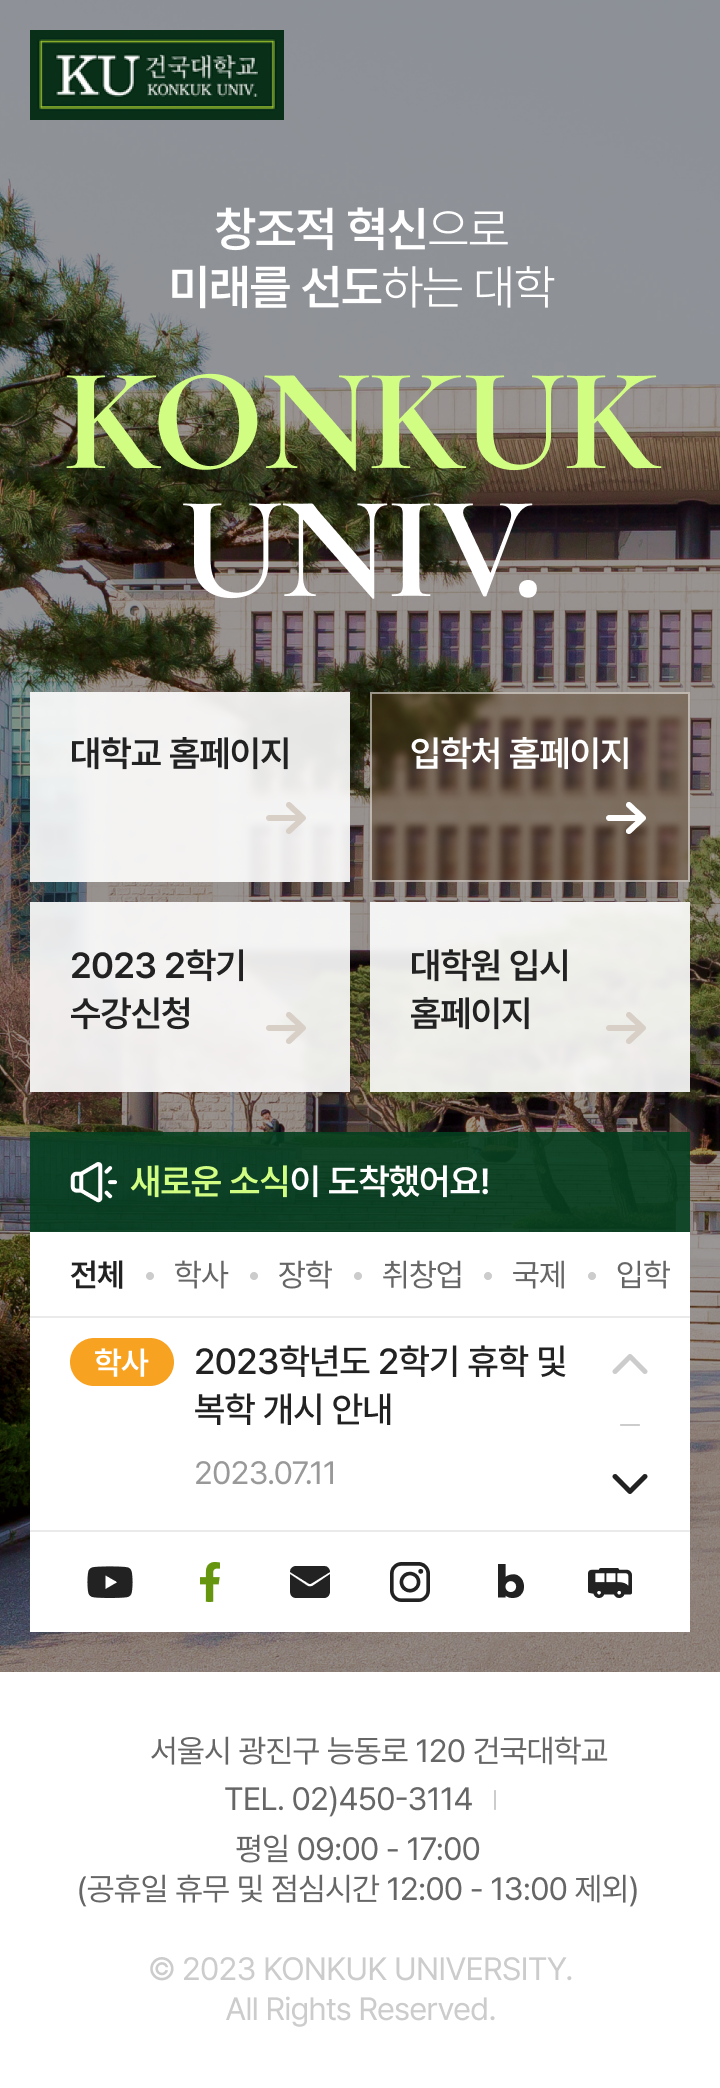
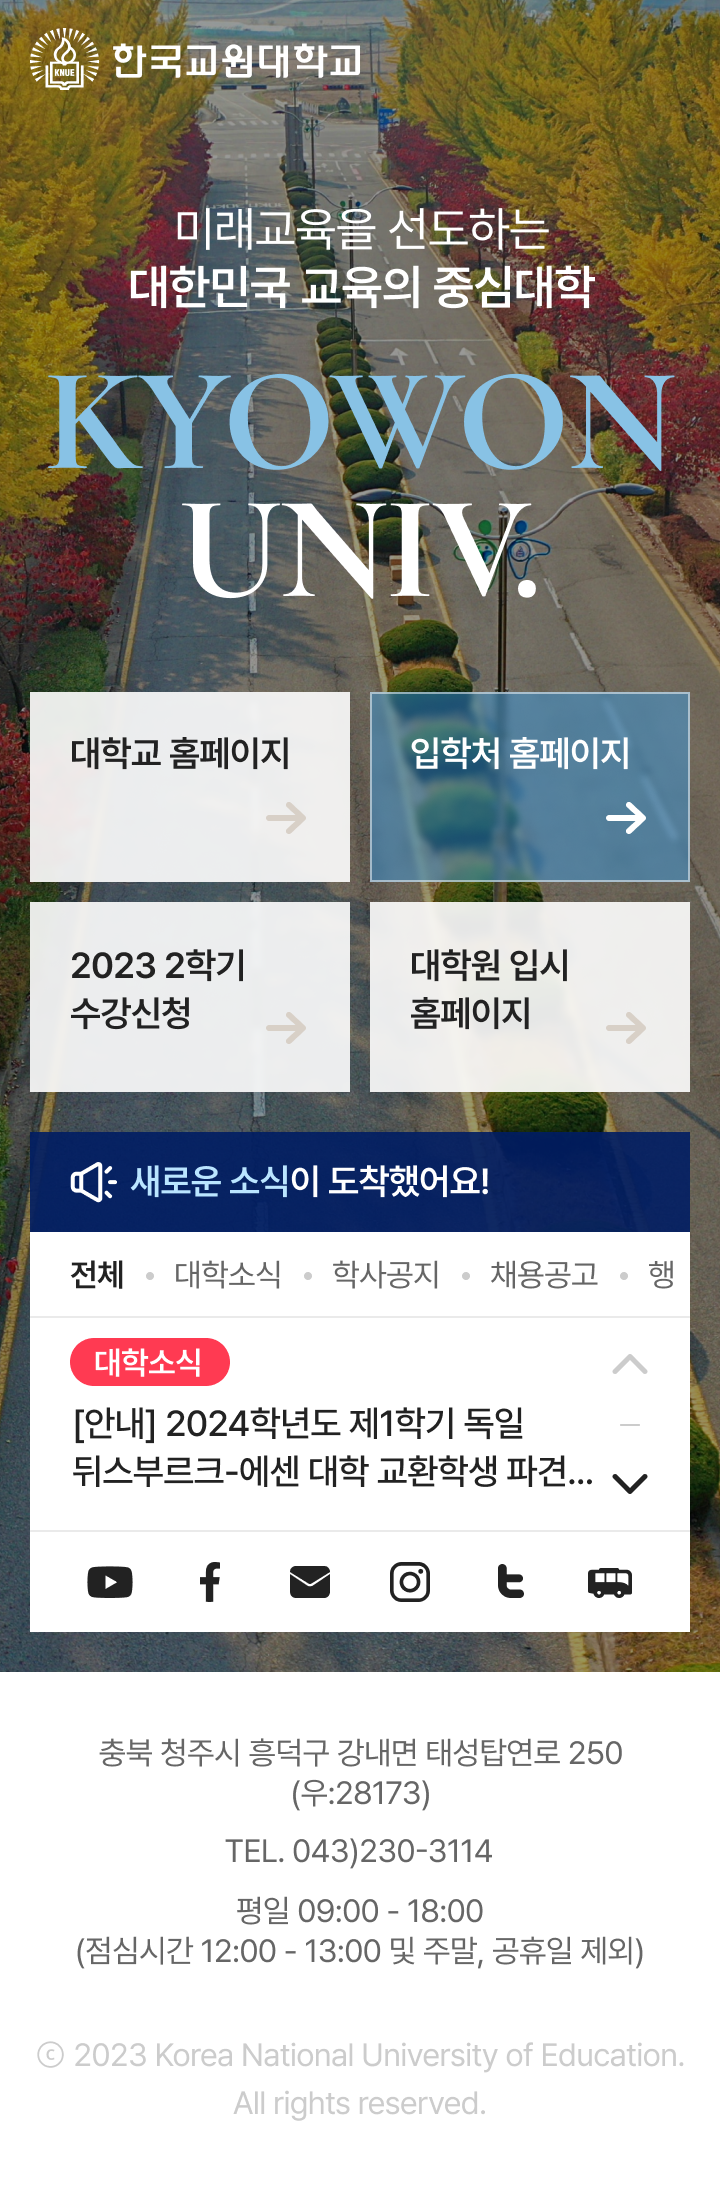
중간 커밋

diff --git a/html/typeA_intro.html b/html/typeA_intro.html
@@ -11,54 +11,68 @@
 <body>
   <div class="wrap intro-a">
     <img src="../images/img-intro-a-mo.png" class="mo">
-    <header>
-        <h1><img src="../images/logo-intoA-header.png"></h1>
-    </header>
-    <main>
-        <div class="intro-main-t">
-            <div class="video"><img src="../images/img-introA-video.png"></div>
-            <div class="txt">
-                <img src="../images/img-introA-sns.png" class="img-sns">
-                <img src="../images/img-introA-name.png" class="logo-name">
-                <ul>
-                    <li><a href="#n">건국대학교</a></li>
-                    <li><a href="#n">건국대학교 입학처</a></li>
-                    <li><a href="#n">2023 2학기 수강신청</a></li>
-                    <li><a href="#n">대학원 입시 홈페이지</a></li>
-                </ul>
-            </div>
-        </div>
-        <div class="intro-main-b">
-            <img src="../images/img-introA-notice.png">
-            <div class="notice">
-                <div class="box-notice">
-                    <span class="tag">학사</span>
-                    <p> 2023학년도 2학기(2024년 2월 졸업
-                        대상자) 졸업 논문 제출 안내</p>
-                    <span class="date">2023.08.28</span>
-                </div>
-                <div class="box-notice">
-                    <span class="tag">장학</span>
-                    <p>2023학년도 2학기 저소득층 장학생 추가 추천&#40;건국사랑, 건국희망 ...</p>
-                    <span class="date">2023.08.28</span>
-                </div>
-                <div class="box-notice">
-                    <span class="tag">조교</span>
-                    <p>문과대학 유학생 지원사업 담당조교
-                        (수업조교C) 모집공고</p>
-                    <span class="date">2023.08.28</span>
-                </div>
-                <div class="box-notice">
-                    <span class="tag">학부</span>
-                    <p>2023학년도 2학기 다·부·연계 융합전공 이수 신청 안내</p>
-                    <span class="date">2023.08.28</span>
+    <div class="left">
+        <header>
+            <h1><img src="../images/logo-intoA-header.png"></h1>
+            <ul  class="quick-menu">
+                <li>KORUS ( 대외서비스 )</li>
+                <li>청람포털서비스</li>
+                <li>온라인프로그램신청</li>
+                <li>원격지원</li>
+            </ul>
+        </header>
+        <footer>
+            <p>충북 청주시 흥덕구 강내면 태성탑연로 250<br>
+                Copyright <span>ⓒ</span> 2023 Korea National<br>
+                University of Education. <br>
+                All rights reserved.</p>
+        </footer>
+    </div>
+    <div class="right">
+        <main>
+            <div class="intro-main-t">
+                <div class="video"><img src="../images/img-introA-video.png"></div>
+                <div class="txt">
+                    <img src="../images/img-introA-sns.png" class="img-sns">
+                    <img src="../images/img-introA-name.png" class="logo-name">
+                    <ul>
+                        <li><a href="#n">건국대학교</a></li>
+                        <li><a href="#n">건국대학교 입학처</a></li>
+                        <li><a href="#n">2023 2학기 수강신청</a></li>
+                        <li><a href="#n">대학원 입시 홈페이지</a></li>
+                    </ul>
                 </div>
             </div>
-        </div>
-    </main>
-    <footer>
-        <p>서울시 광진구 능동로 120 건국대학교 (120 Neungdong-ro, Gwangjin-gu, Seoul 05029. KOREA) TEL. 02-450-3114. COPYRIGHT 2016 KONKUK UNIVERSITY. ALL RIGHTS RESERVED.</p>
-    </footer>
+            <div class="intro-main-b">
+                <img src="../images/img-introA-notice.png">
+                <div class="notice">
+                    <div class="box-notice">
+                        <span class="tag">대학소식</span>
+                        <p> 2023년 제3회 한국교원대학교
+                            한시임기제공무원 6호(전산) ...</p>
+                        <span class="date">2023.08.28</span>
+                    </div>
+                    <div class="box-notice">
+                        <span class="tag">학사공지</span>
+                        <p>한국교원대학교 교육박물관
+                            기간제 근로자[계약직] 채용 ...</p>
+                        <span class="date">2023.08.28</span>
+                    </div>
+                    <div class="box-notice">
+                        <span class="tag">등록/장학</span>
+                        <p>2023년 제5회 대학회계직 서류
+                            전형 합격자 명단 및 면접심사 ...</p>
+                        <span class="date">2023.08.28</span>
+                    </div>
+                    <div class="box-notice">
+                        <span class="tag">대학소식</span>
+                        <p>2023학년도 2학기 강사(4차) 공개 채용 합격자 공고</p>
+                        <span class="date">2023.08.28</span>
+                    </div>
+                </div>
+            </div>
+        </main>
+    </div>
   </div>
 </body>
 </html>

diff --git a/css/intro.css b/css/intro.css
@@ -1,67 +1,98 @@
  /* typeA - intro */
 .wrap.intro-a{
+    display: flex;
     position: relative;
     width: 100%;
     height: 100vh;
     overflow: hidden;
-    background: url(../images/bg-intro-a.png) no-repeat 0 0 / 100% 100%;
 }
 .wrap.intro-a .mo{
     display: none;
 }
-.intro-a header{
-    max-width: 186rem;
-    height: 10.8rem;;
-    margin: auto;
-    padding: 0 5rem;
+.intro-a .left{
+    display: flex;
+    flex-direction: column;
+    justify-content: space-between;
+    min-width: 38rem;
+    width: 38rem;
+    padding: 6rem;
 }
 .intro-a header h1{
-    width: 13.2rem;
-    padding-top:2rem;
+    height: 4.4rem;
+}
+.intro-a header h1 img{
+    height: 100%;
+    object-fit: contain;
+}
+.intro-a header ul{
+    margin-top: 11.6rem;
+}
+.intro-a header ul li{
+    padding-bottom: 1.5rem;
+    background: url(../images/ico-arr-right.png) no-repeat 100% 1.2rem / 0.8rem auto;
+    color: #222;
+    font-size: 1.8rem;
+    font-weight: 400;
+    line-height: 3.6rem;
+    letter-spacing: -0.036rem;
+    border-bottom: 0.1rem solid rgba(34, 34, 34, 0.60);
+    cursor: pointer;
+    transition: all .3s ease 0s;
+}
+.intro-a header ul li:hover{
+    border-bottom: 0.2rem solid #222;
+    font-weight: 700;
+}
+.intro-a header ul li + li{
+    margin-top: 2.4rem;
+}
+.intro-a footer{
+    color: #222;
+    font-size: 1.5rem;
+    font-weight: 400;
+    line-height: 2.6rem;
+    letter-spacing: -0.03rem;
+}
+.intro-a footer span{
+    font-weight: 350;
+}
+.intro-a .right{
+    flex: 1;
+    padding-top: 10rem;
+    background: #F5F6FA;;
 }
 .intro-a main{
-    max-width: 186rem;
-    margin: auto;
+    max-width: 154rem;
     padding: 0 5rem;
 }
 .intro-a .intro-main-t{
     display: flex;
-    gap:7rem;
+    gap:6rem;
 }
 .intro-a .intro-main-t > div{
-    flex: 1;
+    width: 96rem;
 }
 .intro-a .img-sns{
     max-width: 24.8rem;
 }
 .intro-a .logo-name{
-    max-width: 64.8rem;
-    width: 100%;
+    width: 26rem;
     padding-bottom: 4rem;
+    object-fit: contain;
 }
 .intro-a .intro-main-t .txt{
     display: flex;
     flex-direction: column;
     justify-content: space-between;
+    flex:1
 }
 .intro-a .intro-main-t ul{
-    display: flex;
-    flex-wrap: wrap;
-    column-gap: 4.8rem;
-    row-gap: 2.1rem;
+    width: 100%;
 }
 .intro-a .intro-main-t li{
-    width:calc(50% - 2.4rem);
-    height: 5.1rem;
-    color: #222;
-    font-family: Noto Sans KR;
-    font-size: 1.8rem;
-    font-weight: 400;
-    line-height: 3.6rem; /* 200% */
-    letter-spacing: -0.036rem;
-    border-bottom: 0.1rem solid rgba(34, 34, 34, 0.6);
-    background: url(../images/ico-arr-right.png) no-repeat 100% 1.2rem /  0.8rem auto;
+    padding: 1.2rem 2rem;
     transition: all .2s linear 0s;
+    background: #fff;
     cursor: pointer;
 }
 .intro-a .intro-main-t li:hover{
@@ -133,29 +164,6 @@
     font-weight: 500;
     text-decoration-line: underline;
 }
-.intro-a footer{
-    position: absolute;
-    left: 0;
-    bottom: 0;
-    width: 100%;
-    border-top: 1px solid #555;
-}
-.intro-a footer p{
-    display: flex;
-    align-items: center;
-    justify-content: center;
-    max-width: 186rem;
-    height: 6rem;;
-    margin: auto;
-    padding: 0 5rem;
-    color: #CCC;
-    font-family: Noto Sans KR;
-    font-size: 1.6rem;
-    font-weight: 400;
-    line-height: 3rem; /* 187.5% */
-    letter-spacing: -0.032rem;
-    text-align: center;
-}
 @media screen and (max-width:768px) {
     .wrap.intro-a{
         height: auto;
@@ -192,7 +200,7 @@
     display: flex;
     flex-direction: column;
     justify-content: space-between;
-    height: calc(100% - 9.6rem);
+    height: calc(100% - 7rem);
 }
 .intro-b header img{
     width:16rem;
@@ -209,6 +217,7 @@
     gap:2rem;
     max-width: 78rem;
     margin: 0 auto;
+    margin-top: 4rem;
 }
 .intro-b .intro-main-t nav > div{
     position: relative;
@@ -233,7 +242,7 @@
 }
 .intro-b .intro-main-t nav > div:hover{
     backdrop-filter: blur(4px);
-    background:rgba(87, 61, 30, 0.40) url('../images/ico-arr-right03.png') no-repeat calc(100% - 3rem) 3rem / 3rem auto;;
+    background:rgba(49, 168, 255, 0.40) url('../images/ico-arr-right03.png') no-repeat calc(100% - 3rem) 3rem / 3rem auto;;
 }
 .intro-b .intro-main-t nav > div:hover::Before{
     border: 1px solid rgba(255, 255, 255, 0.50);
@@ -352,10 +361,12 @@
     border-left: 0.1rem solid #eaeaea;
 }
 .intro-b footer{
+    height: calc(100% - 79.6rem);
     border-top: 0.1rem solid #eaeaea;
 }
 .intro-b footer img{
     width: 100%;
+    height: 100%;
     object-fit: cover;
 }
 @media screen and (max-width:768px) {

diff --git a/html/typeB_intro.html b/html/typeB_intro.html
@@ -23,10 +23,10 @@
                         <nav>
                             <div>
                                 <p>대학교 홈페이지</p>
-                                <span>건국대학교 홈페이지로 이동합니다.</span>
+                                <span>한국교원대학교 홈페이지로 이동합니다.</span>
                             </div>
                             <div><p>입학처 홈페이지</p>
-                                <span>건국대학교 입학처 홈페이지로 이동합니다.</span>
+                                <span>한국교원대학교 입학처 홈페이지로 이동합니다.</span>
                             
                             </div>
                             <div>
@@ -35,7 +35,7 @@
                             </div>
                             <div>
                                 <p>대학원 입시 홈페이지</p>
-                                <span>건국대학교 대학원 홈페이지로 이동합니다.</span>
+                                <span>한국교원대학교 대학원 홈페이지로 이동합니다.</span>
                             </div>
                         </nav>
                 </div>
